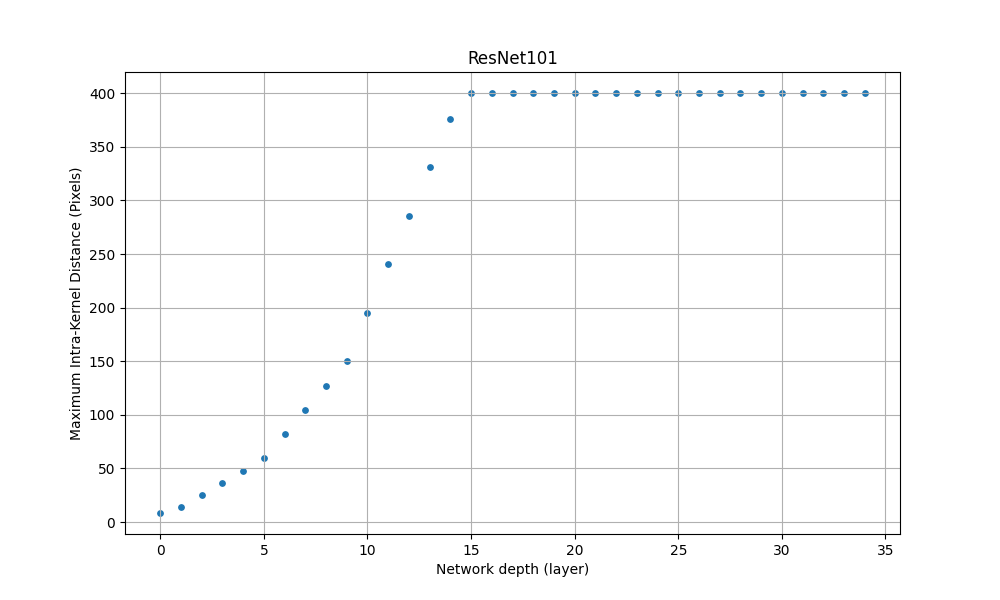
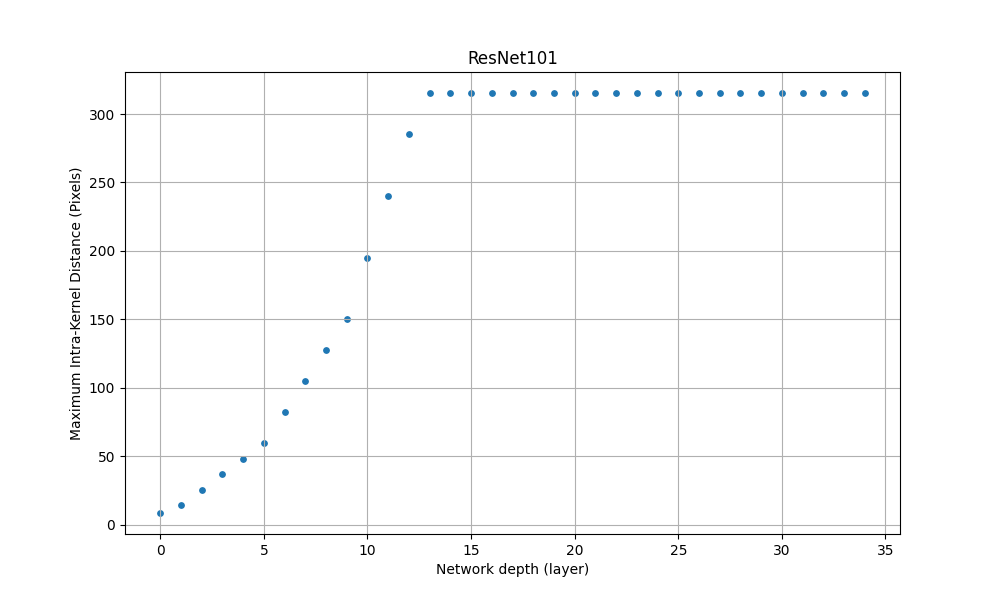
Fix image size

diff --git a/receptive_field/cnn_rf.py b/receptive_field/cnn_rf.py
@@ -27,7 +27,8 @@ def get_resnet_max_distances_basic_block(layers: list[int]):
                 current_max_distance += (4 * current_stride)
             horizontal_max_distances.append(current_max_distance)
 
-    return [np.sqrt(2) * min(h, 283) for h in horizontal_max_distances]
+    # Our images are 224x224
+    return [np.sqrt(2) * min(h, 223) for h in horizontal_max_distances]
 
 def get_resnet_max_distances_bottleneck(layers: list[int]):
     # Initial layer -> 7x7 convolution with 2x2 stride
@@ -50,7 +51,8 @@ def get_resnet_max_distances_bottleneck(layers: list[int]):
                 # For layers 2-4, there is a 2x2 stride in the first block's first convolution.
                 current_stride *= 2
 
-    return [np.sqrt(2) * min(h, 283) for h in horizontal_max_distances]
+    # Our images are 224x224
+    return [np.sqrt(2) * min(h, 223) for h in horizontal_max_distances]
 
 def plot(distances, title):
     dir_name = os.path.dirname(__file__)
